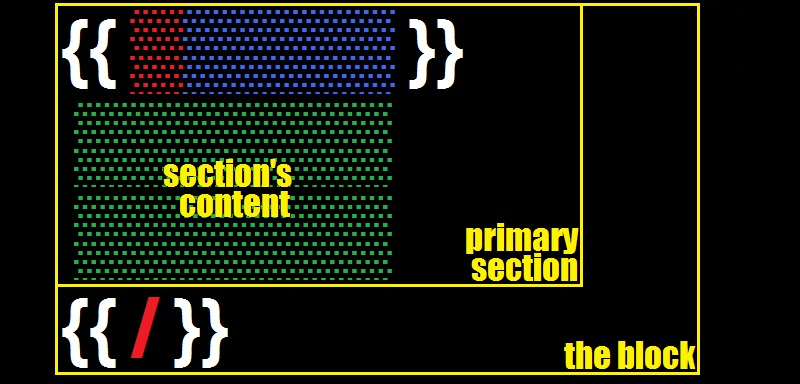
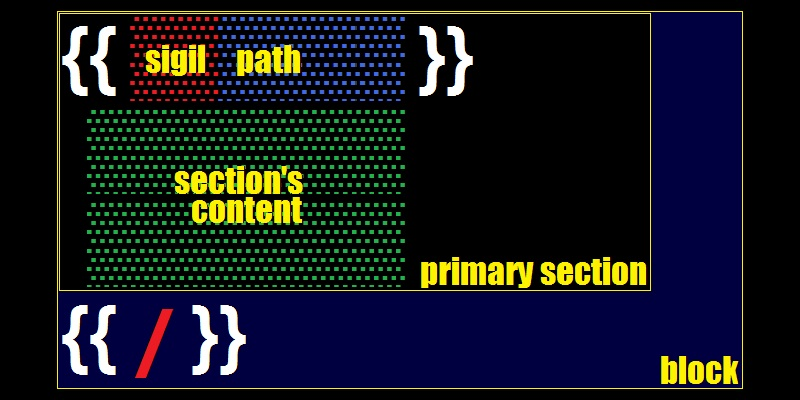
rev

diff --git a/mustache.md b/mustache.md
@@ -109,22 +109,6 @@ the name cannot contain a ***dot***<sup>[◥][dot]</sup>
 or ***whitespace***<sup>[◥][whitespace]</sup>
 characters - they have a special meaning.
 
-#### dot notation
-[![path-rel](mm/mustache-path-rel.jpg)](#dot-notation)
-
-***multiple names*** in the path
-***are joined***<sup>[◥][interfix]</sup>
-with the ***dot***<sup>[◥][dot]</sup> character.
-
-for example, the path consisting of two names - `first.second`
-assumes that the `first` name ***points to the container***<sup>[◥][container]</sup>
-and the `second` name points to ***the value inside*** that container.
-for the `first.second.third` path, the rule extrapolates -
-the `third` value ***must be extracted*** from the `second` container
-which must be extracted from the `first` container.
-that is, the `first.second` value contains the `third` value,
-which is simply a `first.second.third` value.
-
 #### absolute path
 [![path-abs](mm/mustache-path-abs.jpg)](#absolute-path)
 
@@ -157,13 +141,30 @@ of value.
 a [path](#paths) with ***no backpedal***
 is called ***relative***<sup>[◥][rel-path]</sup> -
 the first name is ***searched***<sup>[◥][linear-search]</sup>
-on [the stack](#the-context-stack) (rather than peeked).
+on [the stack](#the-context-stack)
+(rather than ***peeked***<sup>[◥][stack-peek]</sup>).
 
 the ***search*** goes from ***top to bottom***
 only inside of ***container***<sup>[◥][container]</sup>
 values. when the first name is found,
 but [the dot notation](#dot-notation) fails,
 the search does not resume.
+
+#### dot notation
+[![path-rel](mm/mustache-path-rel.jpg)](#dot-notation)
+
+***multiple names*** in the path
+***are joined***<sup>[◥][interfix]</sup>
+with the ***dot***<sup>[◥][dot]</sup> character.
+
+for example, the path consisting of two names - `first.second`
+assumes that the `first` name ***points to the container***<sup>[◥][container]</sup>
+and the `second` name points to ***the value inside*** that container.
+for the `first.second.third` path, the rule extrapolates -
+the `third` value ***must be extracted*** from the `second` container
+which must be extracted from the `first` container.
+that is, the `first.second` value contains the `third` value,
+which is simply a `first.second.third` value.
 
 #### lambda path
 [![path-lambda](mm/mustache-path-lambda.jpg)](#lambda-path)
@@ -174,6 +175,10 @@ it denotes the end of
 [the path that resolves to lambda](#lambdas) and
 the start of the ***argument***<sup>[◥][argument]</sup>
 to that lambda.
+
+for example in `hlp.isEven _index`,
+the `hlp.isEven` is [the path](#paths) and
+`_index` is the argument.
 
 
 ### variables
@@ -203,8 +208,8 @@ the affix has no effect.
 
 ### indentation
 ***for better appearance***<sup>[◥][readability]</sup>,
-[clause](#clauses) components
-([delimiters](#delimiters), [sigil](#sigils) and [path](#paths))
+all [clause](#clauses) components -
+[delimiters](#delimiters), [sigil](#sigils) and [path](#paths)
 ***can align with each other***<sup>[◥][free-form]</sup>
 using ***whitespace***<sup>[◥][whitespace]</sup>.
 
